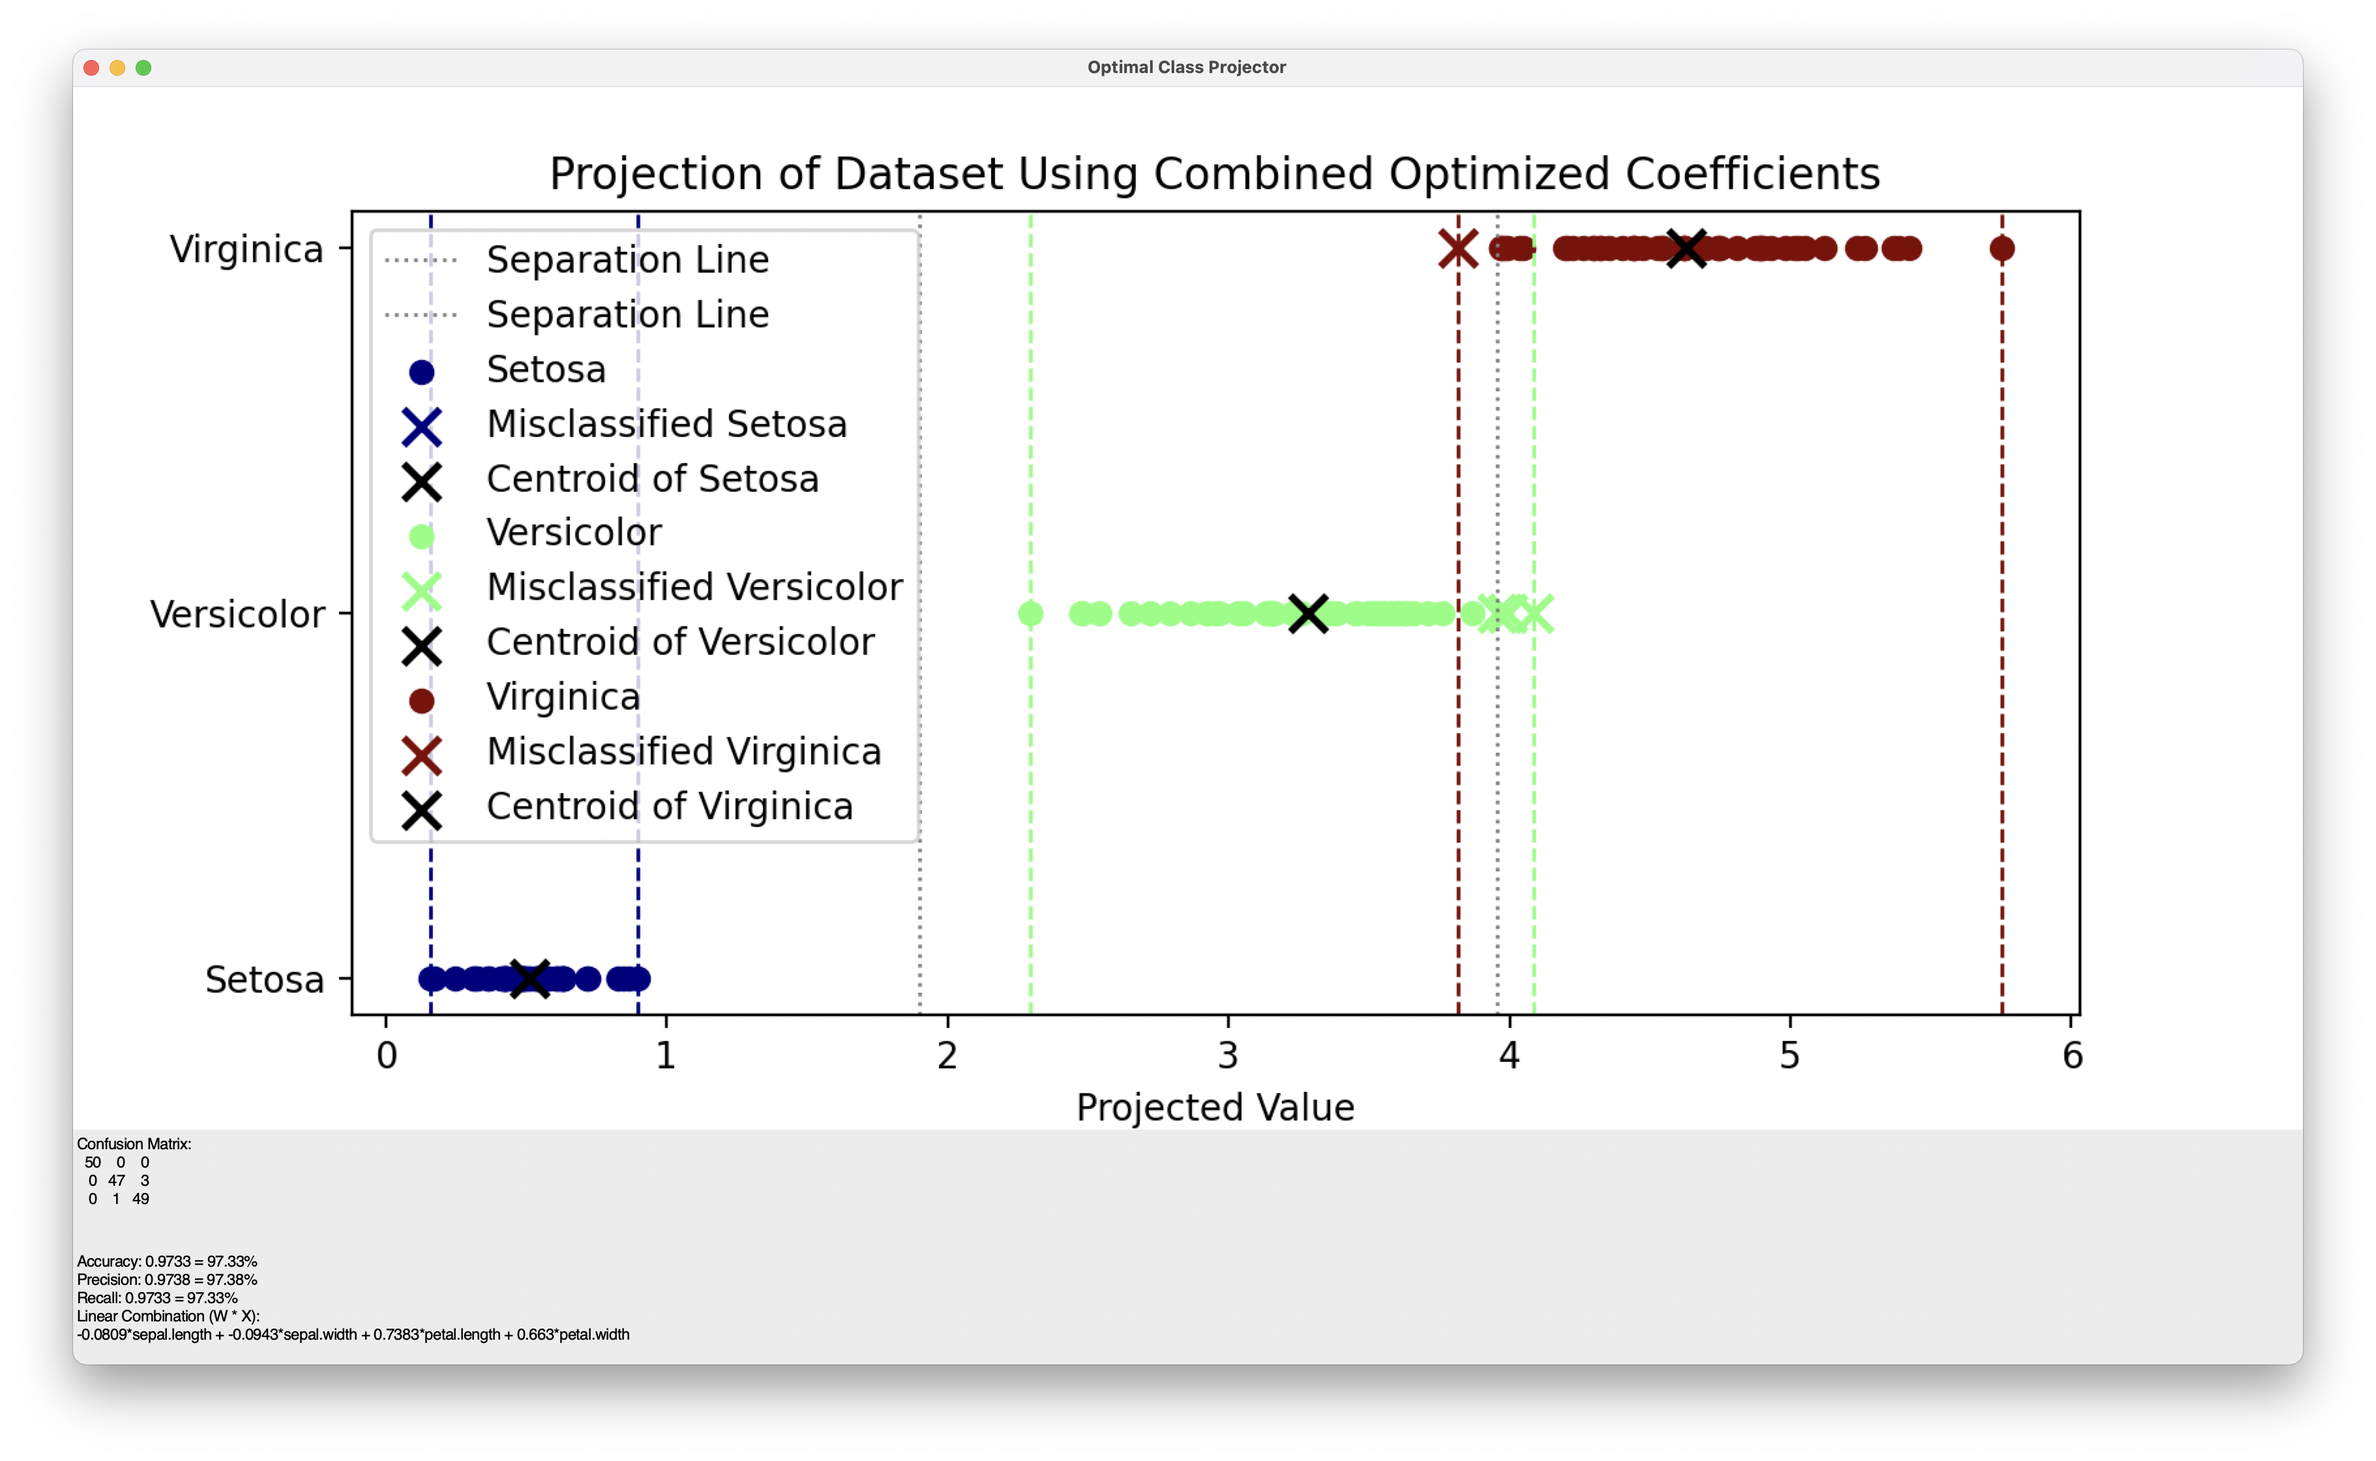
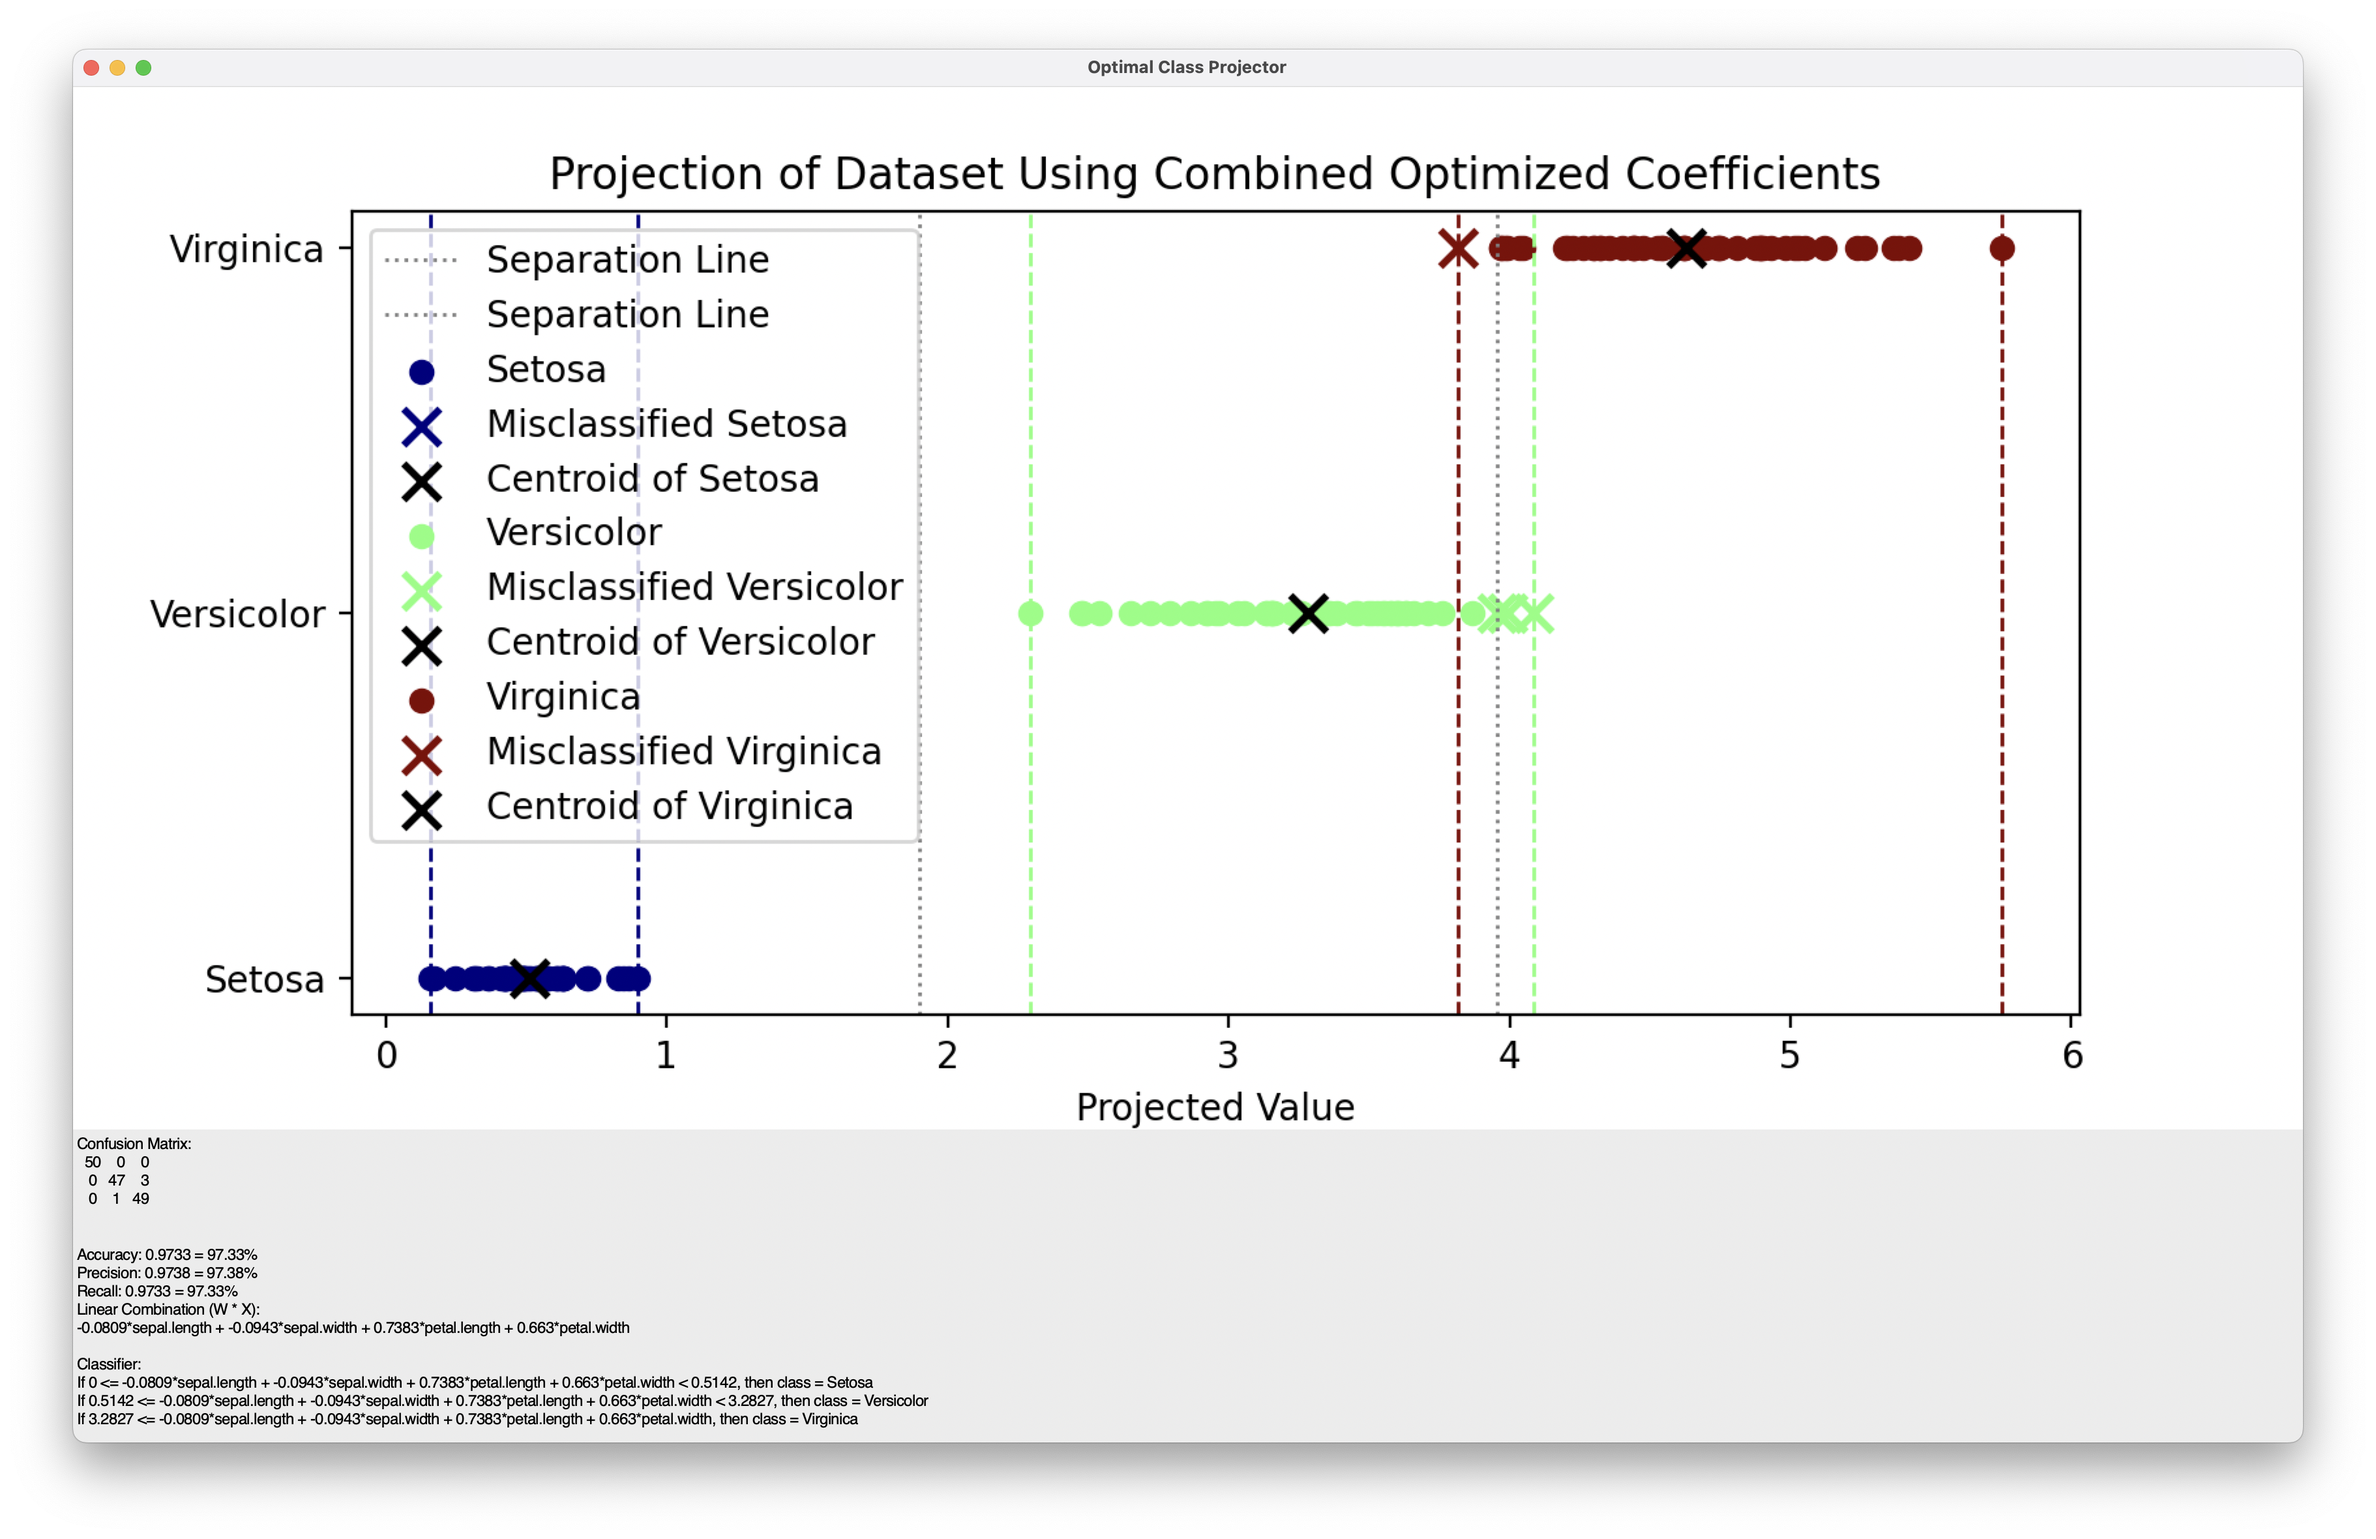
Print classifier definition below stats

diff --git a/demo.py b/demo.py
@@ -44,8 +44,8 @@ def optimize_coefficients(X, y):
     result = minimize(combined_objective_function, W0, args=(X, y, 1.0, 1.0), constraints=[{'type': 'eq', 'fun': lambda W: np.linalg.norm(W) - 1}])
     return result.x
 
-def display_confusion_matrix_and_stats(conf_matrix, accuracy, precision, recall, W_optimal, attribute_names, root):
-    """Displays the confusion matrix, stats, and coefficients in a Tkinter window."""
+def display_confusion_matrix_and_stats(conf_matrix, accuracy, precision, recall, W_optimal, attribute_names, centroids, class_names, root):
+    """Displays the confusion matrix, stats, coefficients, and classifier in a Tkinter window."""
     stats_frame = Frame(root)
     stats_frame.pack(side=BOTTOM, fill=BOTH, expand=True)
 
@@ -56,11 +56,27 @@ def display_confusion_matrix_and_stats(conf_matrix, accuracy, precision, recall,
     # Construct the linear combination string
     linear_combo = " + ".join([f"{round(coef, 4)}*{attr}" for coef, attr in zip(W_optimal.flatten(), attribute_names)])
 
+    # Define the classifier based on separation lines
+    classifier_str = "Classifier:\n"
+    sorted_centroids = sorted(centroids)
+    
+    # First class: from 0 up to the first separation line
+    classifier_str += f"If 0 <= {linear_combo} < {sorted_centroids[0]:.4f}, then class = {class_names[0]}\n"
+
+    # Middle classes: for each middle centroid, define a range between previous and current
+    for i in range(1, len(sorted_centroids)):
+        if i < len(sorted_centroids) - 1:
+            classifier_str += f"If {sorted_centroids[i-1]:.4f} <= {linear_combo} < {sorted_centroids[i]:.4f}, then class = {class_names[i]}\n"
+        else:
+            # Last class: everything greater than or equal to the last separation line
+            classifier_str += f"If {sorted_centroids[i-1]:.4f} <= {linear_combo}, then class = {class_names[i]}\n"
+
     stats_str = (
         f"\nAccuracy: {accuracy:.4f} = {accuracy * 100:.2f}%\n"
         f"Precision: {precision:.4f} = {precision * 100:.2f}%\n"
         f"Recall: {recall:.4f} = {recall * 100:.2f}%\n"
-        f"Linear Combination (W * X):\n{linear_combo}\n"  # Display the linear combination
+        f"Linear Combination (W * X):\n{linear_combo}\n"
+        f"\n{classifier_str}"
     )
 
     Label(stats_frame, text=matrix_str, justify='left', font=("Helvetica", 12)).pack(side=TOP, anchor="w")
@@ -78,8 +94,7 @@ def project_and_plot_tkinter(X, y, W_optimal, class_names, attribute_names, root
     colors = plt.cm.jet(np.linspace(0, 1, len(unique_classes)))
 
     centroids = np.array([XW[y == i].mean() for i in unique_classes])
-    sorted_indices = np.argsort(centroids)  # Sort centroids
-    sorted_centroids = centroids[sorted_indices]
+    sorted_centroids = sorted(centroids)
 
     # Draw separation lines between nearest centroids (n-1 lines)
     for i in range(len(sorted_centroids) - 1):
@@ -123,7 +138,7 @@ def project_and_plot_tkinter(X, y, W_optimal, class_names, attribute_names, root
     precision = precision_score(y, predictions, labels=unique_classes, average='weighted')
     recall = recall_score(y, predictions, labels=unique_classes, average='weighted')
 
-    display_confusion_matrix_and_stats(conf_matrix, accuracy, precision, recall, W_optimal, attribute_names, root)
+    display_confusion_matrix_and_stats(conf_matrix, accuracy, precision, recall, W_optimal, attribute_names, centroids, class_names, root)
 
 def main():
     file_path = select_csv_file()
@@ -134,7 +149,7 @@ def main():
     df = load_csv(file_path)
     class_column = find_class_column(df)
     y = df[class_column].values
-    attribute_names = df.drop(columns=[class_column]).columns
+    attribute_names = df.drop(columns=[class_column]).columns  # Get attribute names
     
     if not np.issubdtype(y.dtype, np.number):
         label_encoder = LabelEncoder()
